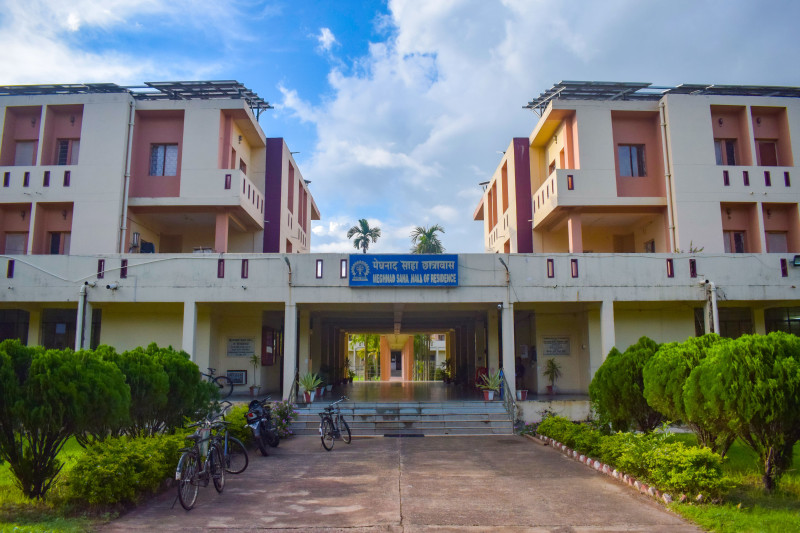
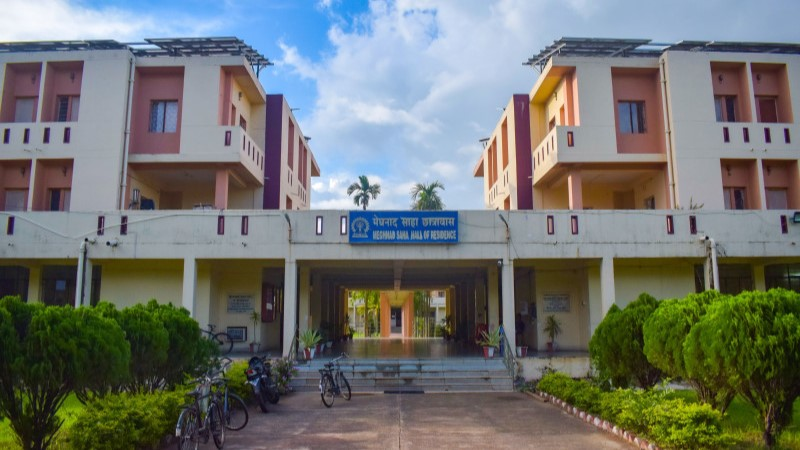
hall images and services data

diff --git a/app/team/[teamname]/core.module.css b/app/team/[teamname]/core.module.css
@@ -67,10 +67,16 @@
 	}
 }
 
+.memberInfo {
+	display: flex;
+	align-items: center;
+	flex-direction: column;
+}
+
 .socialIcons {
 	display: flex;
-	gap: 10px;
 	justify-content: space-around;
+	width: 60%;
 }
 
 .socialIcons a {
@@ -80,7 +86,7 @@
 }
 
 .socialIcons a:hover {
-	color: #afafaf;
+	color: #696969;
 }
 
 .memberContainer {
@@ -143,11 +149,11 @@
 .memberName {
 	font-size: 16px;
 	font-weight: bold;
-	margin-top: 10px;
 	text-align: center;
 	color: #0da591;
 	margin-bottom: 10px;
 	opacity: 100%;
+	text-shadow: 2px 2px 5px #525252;
 }
 
 .figure {
@@ -166,20 +172,11 @@
 	display: grid;
 	align-items: end;
 	font-family: sans-serif;
-	font-size: 100px;
 	font-weight: bold;
-	color: #ff6262;
 	padding: 0.75rem;
-	background: var(--c, #a5510640);
-	clip-path: inset(0 var(--_i, 100%) 0 0);
 	-webkit-mask: linear-gradient(#ffffff 0 0), linear-gradient(#000 0 0);
-	/* -webkit-mask-composite: xor; */
-	-webkit-mask-clip: text, padding-box;
+	mask: linear-gradient(#fff 0 0), linear-gradient(#000 0 0);
 	margin: -1px;
-}
-
-.figure:hover .figcaption {
-	--_i: 0%;
 }
 
 .figure:hover img {
@@ -189,6 +186,7 @@
 @supports not (-webkit-mask-clip: text) {
 	.figure .figcaption {
 		-webkit-mask: none;
+		mask: none;
 		color: #ffffff;
 	}
 }

diff --git a/components/Timeline.jsx b/components/Timeline.jsx
@@ -8,14 +8,13 @@ import "./Timeline.css";
 
 import Link from "next/link";
 import Image from "next/image";
-import SNIG from "@/public/assets/images/home/carousel/campus_1.jpg";
 
 const busRoute = [
 	{
 		code: "SNIG",
 		name: "Sarojani Naidu/Indira Gandhi",
 		additional: "Hall of Residence",
-		image: SNIG,
+		image: "/assets/images/halls/SNIG.jpg",
 		location: "https://maps.app.goo.gl/vyWniws15TjqqdZ37",
 	},
 	{
@@ -50,7 +49,7 @@ const busRoute = [
 		code: "PAN Loop",
 		name: "PAN Loop Turn",
 		additional: "Patel, Azad, Nehru, PFC",
-		image: SNIG,
+		image: "/assets/images/halls/PANloop.jpg",
 		location: "https://maps.app.goo.gl/NahEhJWf9ddor4j26",
 	},
 	{
@@ -93,7 +92,7 @@ const busRoute = [
 		code: "SNVH",
 		name: "Sister Nivedita",
 		additional: "Hall of Residence",
-		image: SNIG,
+		image: "/assets/images/halls/SNVH.jpg",
 		location: "https://maps.app.goo.gl/DBs8dqyGQ2CWEhPY7",
 	},
 	{
@@ -107,7 +106,7 @@ const busRoute = [
 		code: "SNIG",
 		name: "Sarojani Naidu/Indira Gandhi",
 		additional: "Hall of Residence",
-		image: SNIG,
+		image: "/assets/images/halls/SNIG.jpg",
 		location: "https://maps.app.goo.gl/vyWniws15TjqqdZ37",
 	},
 ];

diff --git a/app/team/[teamname]/images_coordis.jsx b/app/team/[teamname]/images_coordis.jsx
@@ -1,10 +1,10 @@
-import akshat from "@/public/assets/images/team_pics_coordinators/akshat.png";
+import akshat from "@/public/assets/images/team_pics_coordinators/akshat.jpg";
 import aryan from "@/public/assets/images/team_pics_coordinators/aryan.JPG";
 import awanish from "@/public/assets/images/team_pics_coordinators/awanish.JPG";
 import burra from "@/public/assets/images/team_pics_coordinators/burra.JPG";
 import gvk from "@/public/assets/images/team_pics_coordinators/gvk.JPG";
 import harishwar from "@/public/assets/images/team_pics_coordinators/harishwar.JPG";
-import ishan from "@/public/assets/images/team_pics_coordinators/ishan.png";
+import ishan from "@/public/assets/images/team_pics_coordinators/ishan.jpg";
 import jai from "@/public/assets/images/team_pics_coordinators/jai.jpg";
 import kusuma from "@/public/assets/images/team_pics_coordinators/kusuma.JPG";
 import nidhi from "@/public/assets/images/team_pics_coordinators/nidhi.JPG";

diff --git a/app/services/food/Food.module.css b/app/services/food/Food.module.css
@@ -21,7 +21,7 @@
 
 .description {
 	color: #603d30;
-	font-size: 2vw;
+	font-size: 2rem;
 	font-weight: 300;
 	margin: 10px 0 20px 0;
 	text-align: center;
@@ -87,14 +87,22 @@
 
 .restaurant-info h2 {
 	color: #603d30;
-	font-size: 3vw;
+	font-size: 3rem;
 	font-weight: 600;
 	margin-bottom: 10px;
 }
 
+.restaurant-info a {
+	text-decoration: none;
+}
+
+.restaurant-info h2 i {
+	font-size: 2rem;
+}
+
 .restaurant-info p {
 	color: #603d30;
-	font-size: 2vw;
+	font-size: 2.5rem;
 	font-weight: 300;
 	margin-bottom: 10px;
 }
@@ -102,7 +110,7 @@
 .restaurant-info ul li {
 	color: #603d30;
 	margin-bottom: 10px;
-	font-size: 2vw;
+	font-size: 2.5rem;
 	font-weight: 300;
 	margin-right: 10px;
 }
@@ -142,6 +150,9 @@
 	}
 	.restaurant-info h2 {
 		font-size: 2rem;
+	}
+	.restaurant-info h2 i {
+		font-size: 1.5rem;
 	}
 	.restaurant-info p {
 		font-size: 1.6rem;

diff --git a/app/services/food/page.jsx b/app/services/food/page.jsx
@@ -2,6 +2,7 @@ import Styles from "./Food.module.css";
 import BackButton from "@/components/BackButton";
 import { Cookie } from "next/font/google";
 import Image from "next/image";
+import Link from "next/link";
 
 const cookie = Cookie({ weight: "400", subsets: ["latin"] });
 
@@ -29,9 +30,12 @@ export default function Food() {
 									height={1000}
 								/>
 								<div className={Styles["restaurant-info"]}>
-									<h2 className={Styles["restaurant-name"]}>
-										{restaurant.name}
-									</h2>
+									<Link href={restaurant.link}>
+										<h2>
+											{restaurant.name + " "}
+											<i className="fa-solid fa-map-location-dot"></i>
+										</h2>
+									</Link>
 									<p>
 										<strong>Location :</strong>{" "}
 										{restaurant.location}

diff --git a/components/HomeCarousel.jsx b/components/HomeCarousel.jsx
@@ -11,9 +11,10 @@ import img3 from "@/public/assets/images/home/carousel/campus_3.jpg";
 import img4 from "@/public/assets/images/home/carousel/campus_4.jpg";
 import img5 from "@/public/assets/images/home/carousel/campus_5.jpg";
 import img6 from "@/public/assets/images/home/carousel/campus_6.jpg";
+import img7 from "@/public/assets/images/home/carousel/campus_7.jpg";
 
 export default function HomeCarousel() {
-	const carousel = [img1, img2, img3, img4, img5, img6];
+	const carousel = [img7, img1, img2, img3, img4, img5, img6];
 
 	return (
 		<Carousel

diff --git a/app/services/Services.module.css b/app/services/Services.module.css
@@ -1,5 +1,6 @@
 .main {
 	-webkit-tap-highlight-color: transparent;
+	min-height: 80vh;
 }
 
 .plank-container {
